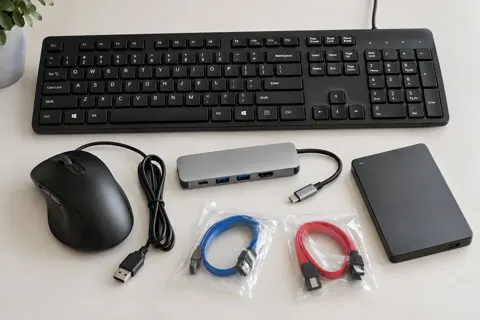
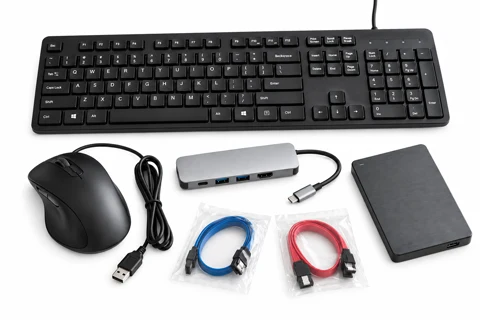
Isola imagens dos servicos sobre fundo branco

diff --git a/src/content.js b/src/content.js
@@ -7,7 +7,7 @@ export const services = [
     title: "Conserto de computadores e notebooks",
     short: "Conserto",
     image: "conserto-foto.webp",
-    alt: "Imagem ilustrativa de notebook aberto em bancada com ferramentas de diagnóstico",
+    alt: "Imagem ilustrativa de notebook aberto com ferramentas de diagnóstico sobre fundo branco",
     description:
       "Não liga, está sem imagem ou apareceu um problema? Vamos entender o que aconteceu.",
     intro:

diff --git a/src/styles.css b/src/styles.css
@@ -407,7 +407,7 @@ h2.eyebrow {
 .service-image img {
   height: 100%;
   width: 100%;
-  object-fit: cover;
+  object-fit: contain;
 }
 .service-card-content {
   padding: 22px 4px 4px;
@@ -1034,7 +1034,8 @@ blockquote {
   width: 100%;
   height: auto;
   aspect-ratio: 1.5;
-  object-fit: cover;
+  object-fit: contain;
+  background: #fff;
   border-radius: var(--radius);
 }
 .problem-grid {

diff --git a/docs/materiais-e-pendencias.md b/docs/materiais-e-pendencias.md
@@ -1,5 +1,9 @@
 # Materiais e revisão editorial
 
+## Imagens dos serviços: fundo branco
+
+As seis imagens dos serviços foram revisadas para manter os equipamentos realistas isolados sobre fundo branco, sem ambientes, bancadas, plantas ou móveis. As versões responsivas de 480, 800 e 1200 pixels recebem o mesmo tratamento. São imagens ilustrativas geradas, não registros de trabalhos ou produtos em estoque.
+
 ## Materiais conferidos
 
 - `571400d0-9537-4b7f-bc5b-188af29fc699.png`: logo RGBA com transparência confirmada, usada no cabeçalho.
